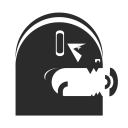
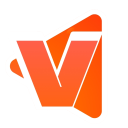
New colour style / rebranding

diff --git a/popup.html b/popup.html
@@ -6,7 +6,7 @@
     <title>Volume Scroll</title>
     <style>
       :root {
-        --primary: #007aff;
+        --primary: #ff5d5d ;
         --danger: #dc3545;
         --success: #34c759;
         --warning: #ffc107;
@@ -36,7 +36,7 @@
       }
 
       .header {
-        background: linear-gradient(135deg, #007aff 0%, #0051d5 100%);
+        background: radial-gradient(circle at 0% 0%, #ff5d5d 0%, #ff6401 35%, #ff3d09 70%);
         padding: 28px 24px;
         margin-bottom: 0;
         box-shadow: 0 4px 20px rgba(0, 122, 255, 0.25);
@@ -237,7 +237,7 @@
       .section-icon {
         width: 40px;
         height: 40px;
-        background: linear-gradient(135deg, var(--primary) 0%, #0051d5 100%);
+        background: linear-gradient(135deg, var(--primary) 0%, #ff3d09 100%);
         border-radius: 10px;
         display: flex;
         align-items: center;
@@ -296,7 +296,7 @@
         width: 20px;
         height: 20px;
         border-radius: 50%;
-        background: linear-gradient(135deg, var(--primary) 0%, #0051d5 100%);
+        background: linear-gradient(135deg, var(--primary) 0%, #ff3d09 100%);
         cursor: pointer;
         box-shadow: 0 2px 8px rgba(0, 122, 255, 0.4);
         transition: all 0.2s;
